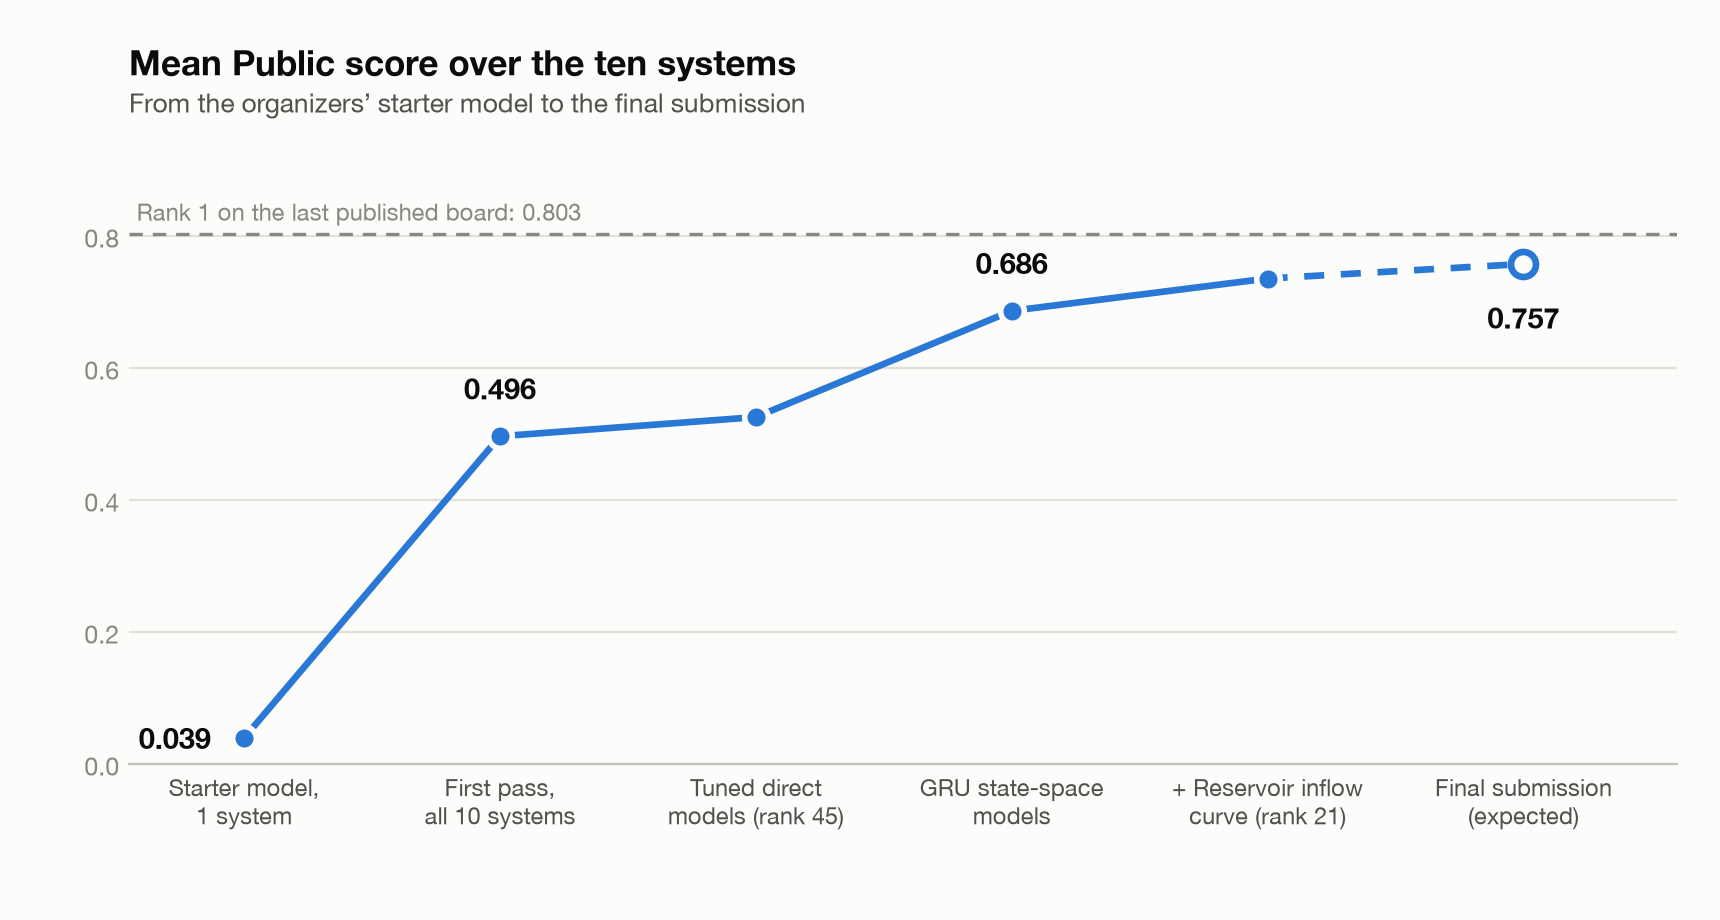
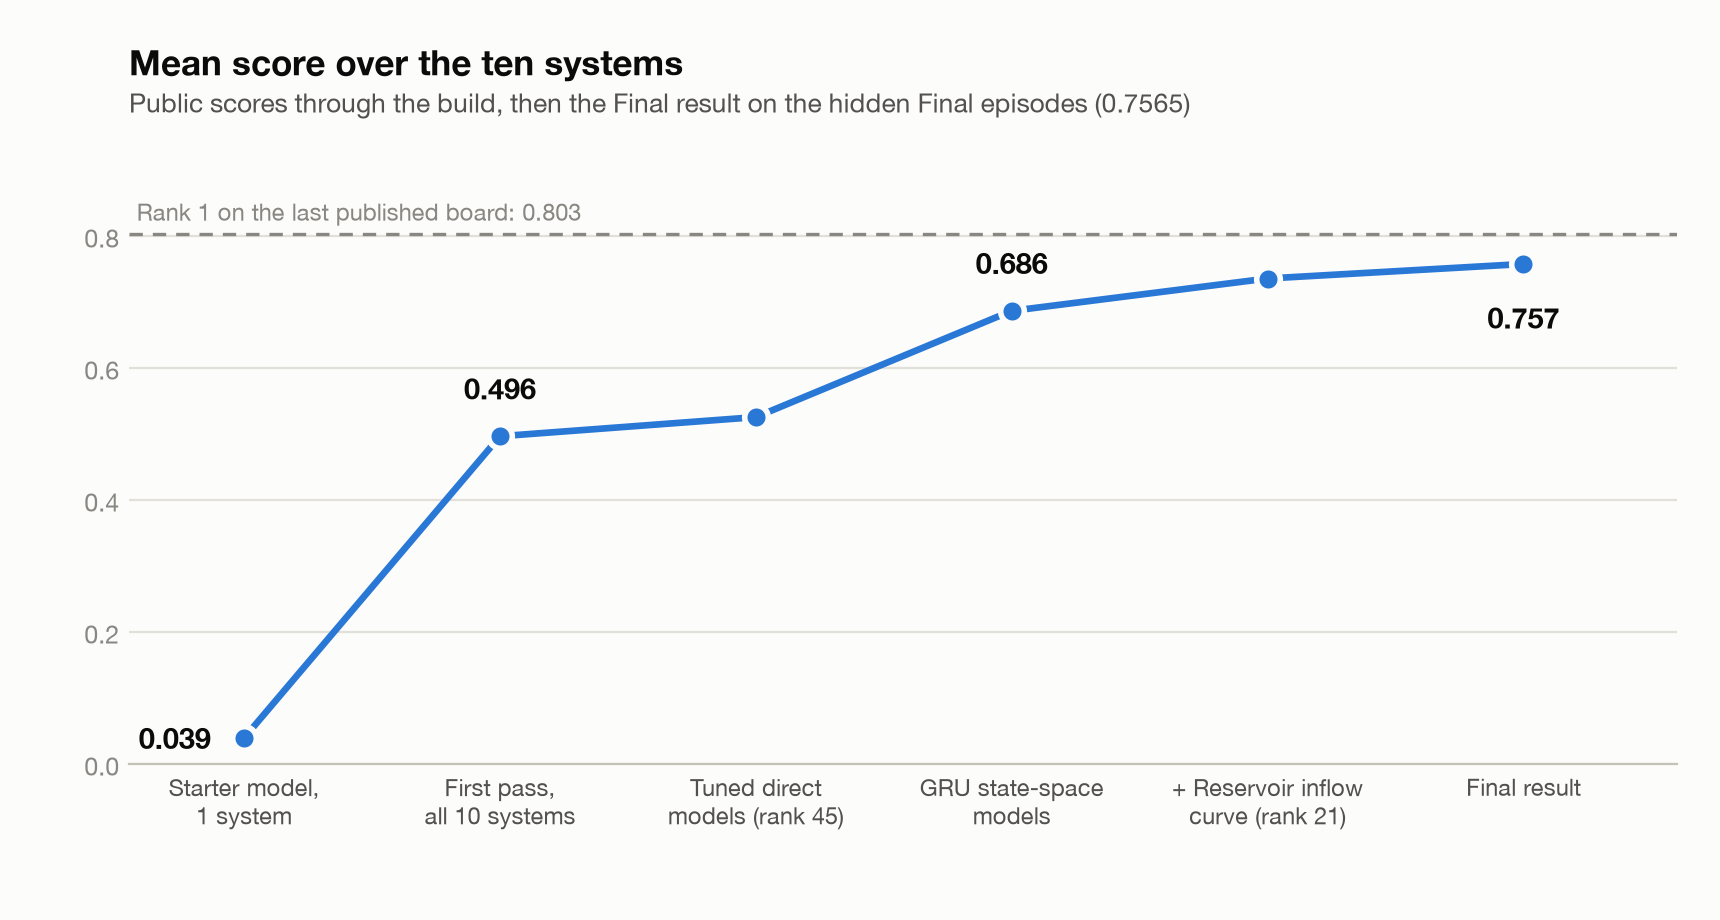
Update results with the Final scores

diff --git a/assets/make_charts.py b/assets/make_charts.py
@@ -27,16 +27,16 @@ PROGRESS = [
     ('Tuned direct\nmodels (rank 45)', 0.525),
     ('GRU state-space\nmodels', 0.686),
     ('+ Reservoir inflow\ncurve (rank 21)', 0.735),
-    ('Final submission\n(expected)', 0.757),
+    ('Final result', 0.757),
 ]
 LEADER = 0.803  # score of rank 1 on the last published board
 
-# (system, first all-ten submission, final submission), Public scores
+# (system, first all-ten submission on the Public board, Final result on the hidden Final episodes)
 SYSTEMS = [
-    ('Ad auction', 0.5485, 0.8667), ('Traffic', 0.5800, 0.8214), ('Wildlife', 0.4803, 0.7988),
-    ('Reservoir', 0.5664, 0.7884), ('Power grid', 0.5803, 0.7455), ('Supply chain', 0.3512, 0.7445),
-    ('Epidemic', 0.3526, 0.7427), ('Hospital queue', 0.5406, 0.7107), ('Market', 0.5081, 0.7009),
-    ('Social contagion', 0.4526, 0.6545),
+    ('Ad auction', 0.5485, 0.8647), ('Traffic', 0.5800, 0.8267), ('Reservoir', 0.5664, 0.7844),
+    ('Wildlife', 0.4803, 0.7819), ('Power grid', 0.5803, 0.7535), ('Epidemic', 0.3526, 0.7511),
+    ('Supply chain', 0.3512, 0.7362), ('Market', 0.5081, 0.7041), ('Hospital queue', 0.5406, 0.6972),
+    ('Social contagion', 0.4526, 0.6655),
 ]
 
 
@@ -60,10 +60,8 @@ def progress(name, t):
     ax.set_xticks(xs); ax.set_xticklabels([n for n, _ in PROGRESS], color=t['ink2'], fontsize=8.5)
     ax.axhline(LEADER, color=t['muted'], linewidth=1.2, linestyle=(0, (4, 3)))
     ax.text(-0.42, LEADER + 0.012, f'Rank 1 on the last published board: {LEADER:.3f}', color=t['muted'], fontsize=8.5, va='bottom')
-    ax.plot(xs[:-1], ys[:-1], color=t['line'], linewidth=2.4, solid_capstyle='round', zorder=3)
-    ax.plot(xs[-2:], ys[-2:], color=t['line'], linewidth=2.4, linestyle=(0, (3, 2.5)), zorder=3)
-    ax.plot(xs[:-1], ys[:-1], 'o', color=t['line'], markersize=8.5, markeredgecolor=t['bg'], markeredgewidth=2, zorder=4)
-    ax.plot(xs[-1:], ys[-1:], 'o', markerfacecolor=t['bg'], markeredgecolor=t['line'], markersize=9, markeredgewidth=2.4, zorder=4)
+    ax.plot(xs, ys, color=t['line'], linewidth=2.4, solid_capstyle='round', zorder=3)
+    ax.plot(xs, ys, 'o', color=t['line'], markersize=8.5, markeredgecolor=t['bg'], markeredgewidth=2, zorder=4)
     ax.annotate(f'{ys[0]:.3f}', (xs[0], ys[0]), xytext=(-12, 0), textcoords='offset points', ha='right', va='center',
                 color=t['ink'], fontsize=10.5, fontweight='bold')
     for i in (1, 3):
@@ -71,8 +69,8 @@ def progress(name, t):
                     color=t['ink'], fontsize=10.5, fontweight='bold')
     ax.annotate(f'{ys[-1]:.3f}', (xs[-1], ys[-1]), xytext=(0, -13), textcoords='offset points', ha='center', va='top',
                 color=t['ink'], fontsize=10.5, fontweight='bold')
-    fig.text(0.075, 0.955, 'Mean Public score over the ten systems', color=t['ink'], fontsize=12.5, fontweight='bold', ha='left', va='top')
-    fig.text(0.075, 0.905, 'From the organizers’ starter model to the final submission', color=t['ink2'], fontsize=9.5, ha='left', va='top')
+    fig.text(0.075, 0.955, 'Mean score over the ten systems', color=t['ink'], fontsize=12.5, fontweight='bold', ha='left', va='top')
+    fig.text(0.075, 0.905, 'Public scores through the build, then the Final result on the hidden Final episodes (0.7565)', color=t['ink2'], fontsize=9.5, ha='left', va='top')
     fig.subplots_adjust(left=0.075, right=0.975, top=0.83, bottom=0.17)
     fig.savefig(OUT / f'progress_{name}.png', facecolor=t['bg']); plt.close(fig)
 
@@ -95,11 +93,11 @@ def systems(name, t):
     ax.annotate('first pass', (a0, 0), xytext=(-10, 0), textcoords='offset points', ha='right', va='center', color=t['ink2'], fontsize=8.5)
     ax.annotate('final', (b0, 0), xytext=(11, 0), textcoords='offset points', ha='left', va='center', color=t['ink2'], fontsize=8.5)
     handles = [Line2D([0], [0], marker='o', color='none', markerfacecolor=t['before'], markeredgecolor=t['bg'], markersize=9, label='First pass over all ten systems'),
-               Line2D([0], [0], marker='o', color='none', markerfacecolor=t['after'], markeredgecolor=t['bg'], markersize=9, label='Final submission')]
+               Line2D([0], [0], marker='o', color='none', markerfacecolor=t['after'], markeredgecolor=t['bg'], markersize=9, label='Final result')]
     leg = ax.legend(handles=handles, loc='lower left', bbox_to_anchor=(0.0, 1.0), ncol=2, frameon=False, fontsize=8.5, handletextpad=0.3, columnspacing=1.6, borderaxespad=0.2)
     for txt in leg.get_texts():
         txt.set_color(t['ink2'])
-    fig.text(0.02, 0.965, 'Public score for each system, before and after', color=t['ink'], fontsize=12.5, fontweight='bold', ha='left', va='top')
+    fig.text(0.02, 0.965, 'Score for each system: first Public pass and Final result', color=t['ink'], fontsize=12.5, fontweight='bold', ha='left', va='top')
     fig.subplots_adjust(left=0.19, right=0.91, top=0.83, bottom=0.06)
     fig.savefig(OUT / f'systems_{name}.png', facecolor=t['bg']); plt.close(fig)
 

diff --git a/README.md b/README.md
@@ -9,9 +9,9 @@
 **In short**
 - The task: learn how a system responds to decisions (staffing, tolls, vaccination rates, water release) from under 2,000 experimental steps, then forecast a long sequence of decisions nobody has tried yet.
 - What I built: a neural network with memory (a GRU) per system, plus physics-style models where the data was too thin for a network to work out the structure.
-- Result: mean Public score **0.04 → 0.735** in roughly 40 hours (rank 21 of 125 on the last published board I saw). My final submission is expected to score about **0.757** on Public. Final results aren't out yet.
+- Result: the mean score went from **0.04 to 0.757** in roughly 40 hours. The **Final score is 0.7565** on the hidden Final episodes, within 0.001 of what the Public scores predicted.
 
-![Line chart of the mean Public score over the ten systems: 0.039 for the starter model, 0.496 after a first pass on all ten systems, 0.525 with tuned direct models, 0.686 with GRU models, 0.735 after adding the reservoir inflow curve, and an expected 0.757 for the final submission. Rank 1 on the last published board was 0.803.](assets/progress_light.png)
+![Line chart of the mean score over the ten systems: 0.039 for the starter model, 0.496 after a first pass on all ten systems, 0.525 with tuned direct models, 0.686 with GRU models, 0.735 after adding the reservoir inflow curve, and 0.757 for the final submission. Rank 1 on the last published Public board was 0.803.](assets/progress_light.png)
 
 ## Why this kind of forecasting matters
 
@@ -25,22 +25,22 @@ One honest caveat: the organizers built these ten systems as **invented mathemat
 
 Each system has named controls and a few noisy readings. Equations and parameters are hidden. In each one, two of three described "memory" mechanisms are switched on, and you aren't told which.
 
-| System | The real-world question it resembles | Controls → what gets forecast | What worked best | Public score |
+| System | The real-world question it resembles | Controls → what gets forecast | What worked best | Final score |
 |---|---|---|---|---|
-| **Ad auction** | How much to bid and spend to win impressions and conversions | bid, budget cap, targeting breadth → win rate, spend, conversions | 10-network GRU ensemble | **0.867** |
-| **Traffic** | How tolls, lane closures and signal timing change congestion | 6 controls (tolls, ramp metering, closures…) → flow and speed on two routes | GRU trained with extra weight on long steady periods | **0.821** |
-| **Wildlife** | How hunting quotas and habitat protection change predator and prey numbers | quota, habitat protection, corridor access → prey and predators in two regions | 10-network GRU ensemble | **0.799** |
-| **Reservoir** | How to release and withdraw water while keeping quality up | release rate, irrigation, withdrawal depth, aeration → level, inflow, outflow, quality | GRU ensemble + a fitted seasonal inflow curve | **0.788** |
-| **Power grid** | How to keep frequency stable while shifting demand and dispatching reserves | price signal, reserve dispatch, charging, interconnector → load, frequency, renewable share | GRU blended with a simple regression | 0.746 |
-| **Supply chain** | How ordering and staffing move inventory and shipments | order size, lead time, product mix, effort, maintenance → shipments, supplier and retail stock | action-history regression with physical limits (no negative stock, supplier cap) | 0.745 |
-| **Epidemic** | Which mix of school closure, masks and vaccination limits cases and hospital strain | 3 policies → daily cases, hospital load | GRU | 0.743 |
-| **Hospital queue** | When staffing, overtime and scheduling keep waits down without burning out staff | 6 controls → wait time, queue length, discharges | physics-style model + GRU | 0.711 |
-| **Market** | How interest rates and a transaction tax move price, volume and liquidity | interest rate, tax → price, volume, order-book depth | GRU trained with extra weight on long steady periods | 0.701 |
-| **Social contagion** | How seeding, incentives and outreach spread adoption across two communities | seeding, incentive, bridge outreach → adopters in each community | **physics simulator + GRU blend** | 0.655 |
+| **Ad auction** | How much to bid and spend to win impressions and conversions | bid, budget cap, targeting breadth → win rate, spend, conversions | 10-network GRU ensemble | **0.865** |
+| **Traffic** | How tolls, lane closures and signal timing change congestion | 6 controls (tolls, ramp metering, closures…) → flow and speed on two routes | GRU trained with extra weight on long steady periods | **0.827** |
+| **Reservoir** | How to release and withdraw water while keeping quality up | release rate, irrigation, withdrawal depth, aeration → level, inflow, outflow, quality | GRU ensemble + a fitted seasonal inflow curve | **0.784** |
+| **Wildlife** | How hunting quotas and habitat protection change predator and prey numbers | quota, habitat protection, corridor access → prey and predators in two regions | 10-network GRU ensemble | **0.782** |
+| **Power grid** | How to keep frequency stable while shifting demand and dispatching reserves | price signal, reserve dispatch, charging, interconnector → load, frequency, renewable share | GRU blended with a simple regression | 0.754 |
+| **Epidemic** | Which mix of school closure, masks and vaccination limits cases and hospital strain | 3 policies → daily cases, hospital load | GRU | 0.751 |
+| **Supply chain** | How ordering and staffing move inventory and shipments | order size, lead time, product mix, effort, maintenance → shipments, supplier and retail stock | action-history regression with physical limits (no negative stock, supplier cap) | 0.736 |
+| **Market** | How interest rates and a transaction tax move price, volume and liquidity | interest rate, tax → price, volume, order-book depth | GRU trained with extra weight on long steady periods | 0.704 |
+| **Hospital queue** | When staffing, overtime and scheduling keep waits down without burning out staff | 6 controls → wait time, queue length, discharges | physics-style model + GRU | 0.697 |
+| **Social contagion** | How seeding, incentives and outreach spread adoption across two communities | seeding, incentive, bridge outreach → adopters in each community | **physics simulator + GRU blend** | 0.666 |
 
-How to read the scores: 1.0 would be a perfect forecast at every step. Each step scores `1 / (1 + error / σ)` with a hidden tolerance σ, so **0.75 means a typical error of about a third of that tolerance**. The final column is the Public leaderboard score of the model in my Final submission.
+How to read the scores: 1.0 would be a perfect forecast at every step. Each step scores `1 / (1 + error / σ)` with a hidden tolerance σ, so **0.75 means a typical error of about a third of that tolerance**. The last column is the score on the hidden Final episodes.
 
-![Dumbbell chart of the Public score of each of the ten systems, first pass versus final submission. Gains range from +0.17 for power grid and hospital queue to +0.39 for supply chain and epidemic. Ad auction ends highest at 0.867 and social contagion lowest at 0.655.](assets/systems_light.png)
+![Dumbbell chart of the score of each of the ten systems, first pass on the Public leaderboard versus the Final result. Gains range from +0.16 for hospital queue to +0.40 for epidemic. Ad auction ends highest at 0.865 and social contagion lowest at 0.666.](assets/systems_light.png)
 
 ## How it works
 
@@ -88,7 +88,7 @@ Two AI-generated results also failed my audit. One "0.75" for reservoir came fro
 - **Little data.** Five runs of at most about 510 steps per system, against 4,000-step scoring. Local cross-validation was noisy (roughly ±0.03 per system) and its sign disagreed with the real score on about half my candidate uploads, so the leaderboard was the only reliable judge.
 - **Experiment budget.** I spent it on broad coverage before I knew which episodes mattered. The receipts later showed most systems lost points on **long steady periods**, and only 76 of the 2,000 steps per system were left to collect them.
 - **The biggest gains came from structure, not size:** the inflow curve (+0.084) and the social simulator (+0.06), not larger networks.
-- **Final results** use different hidden episodes, so the real number will differ from 0.757 by up to about 0.01.
+- **Public versus Final.** Final uses different hidden episodes. The mean barely moved (0.7574 on Public, 0.7565 on Final), but individual systems shifted by up to about 0.017 in either direction (wildlife −0.017, hospital queue −0.014, social contagion +0.011). Differences of a few hundredths between systems are within that noise.
 
 ## Code
 
@@ -113,7 +113,7 @@ research/      common.py (loading, CV, sigma calibration helpers), fair_compare.
 predictors/    NumPy inference as submitted: social_contagion_physics, social_contagion_blend,
                reservoir_inflow (wraps a GRU model and overwrites inflow with the fitted sinusoid)
 collect_scenario.py, collect_structured.py   research-run collectors
-assets/        make_charts.py draws the charts above from the recorded Public scores
+assets/        make_charts.py draws the charts above from the recorded scores
 ```
 
 The scripts assume the organizers' participant kit in the working directory (`client.py`, `fit.py`, `example_submission/predict.py`, `briefs.md`), five research runs per system in `research/`, and a calibrated `research/sigma_cal.json`. None of those are included. Trained weights are not included either. The hospital-queue model that shipped isn't in this repository.
